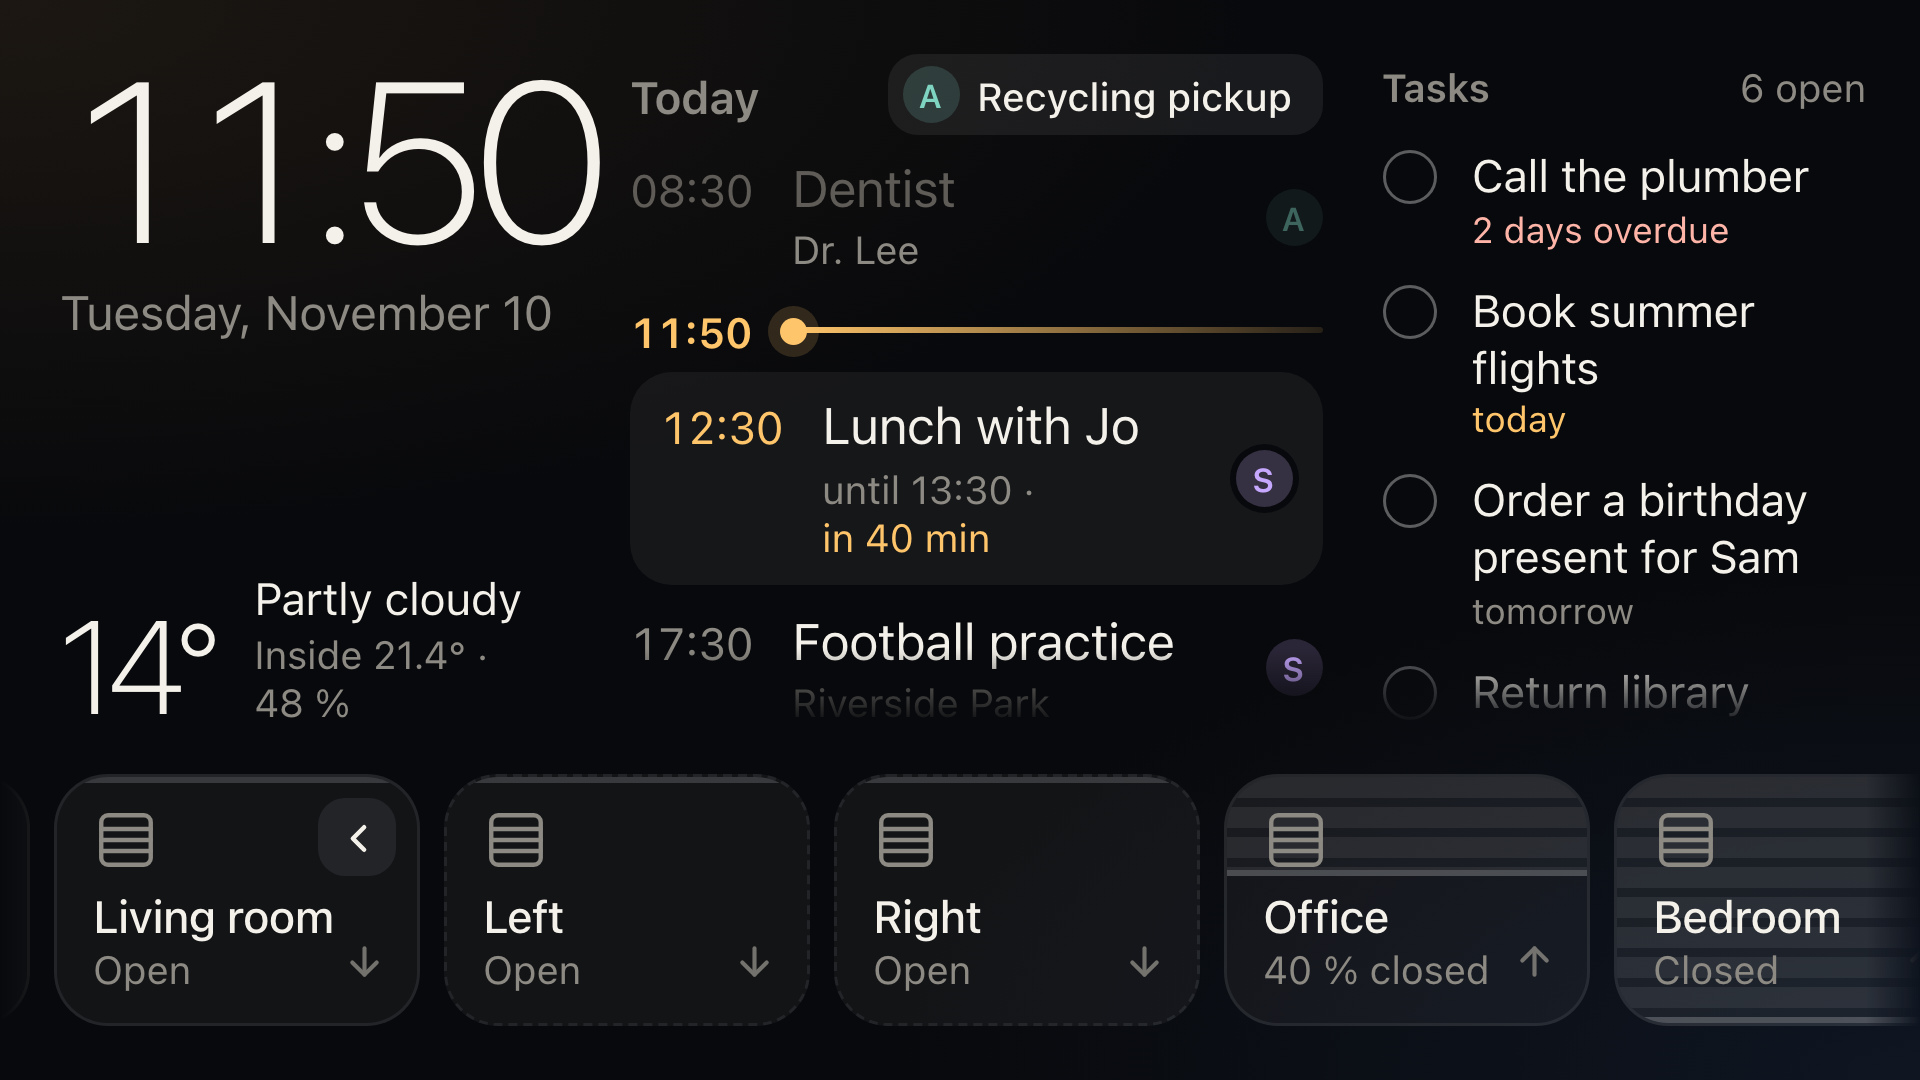
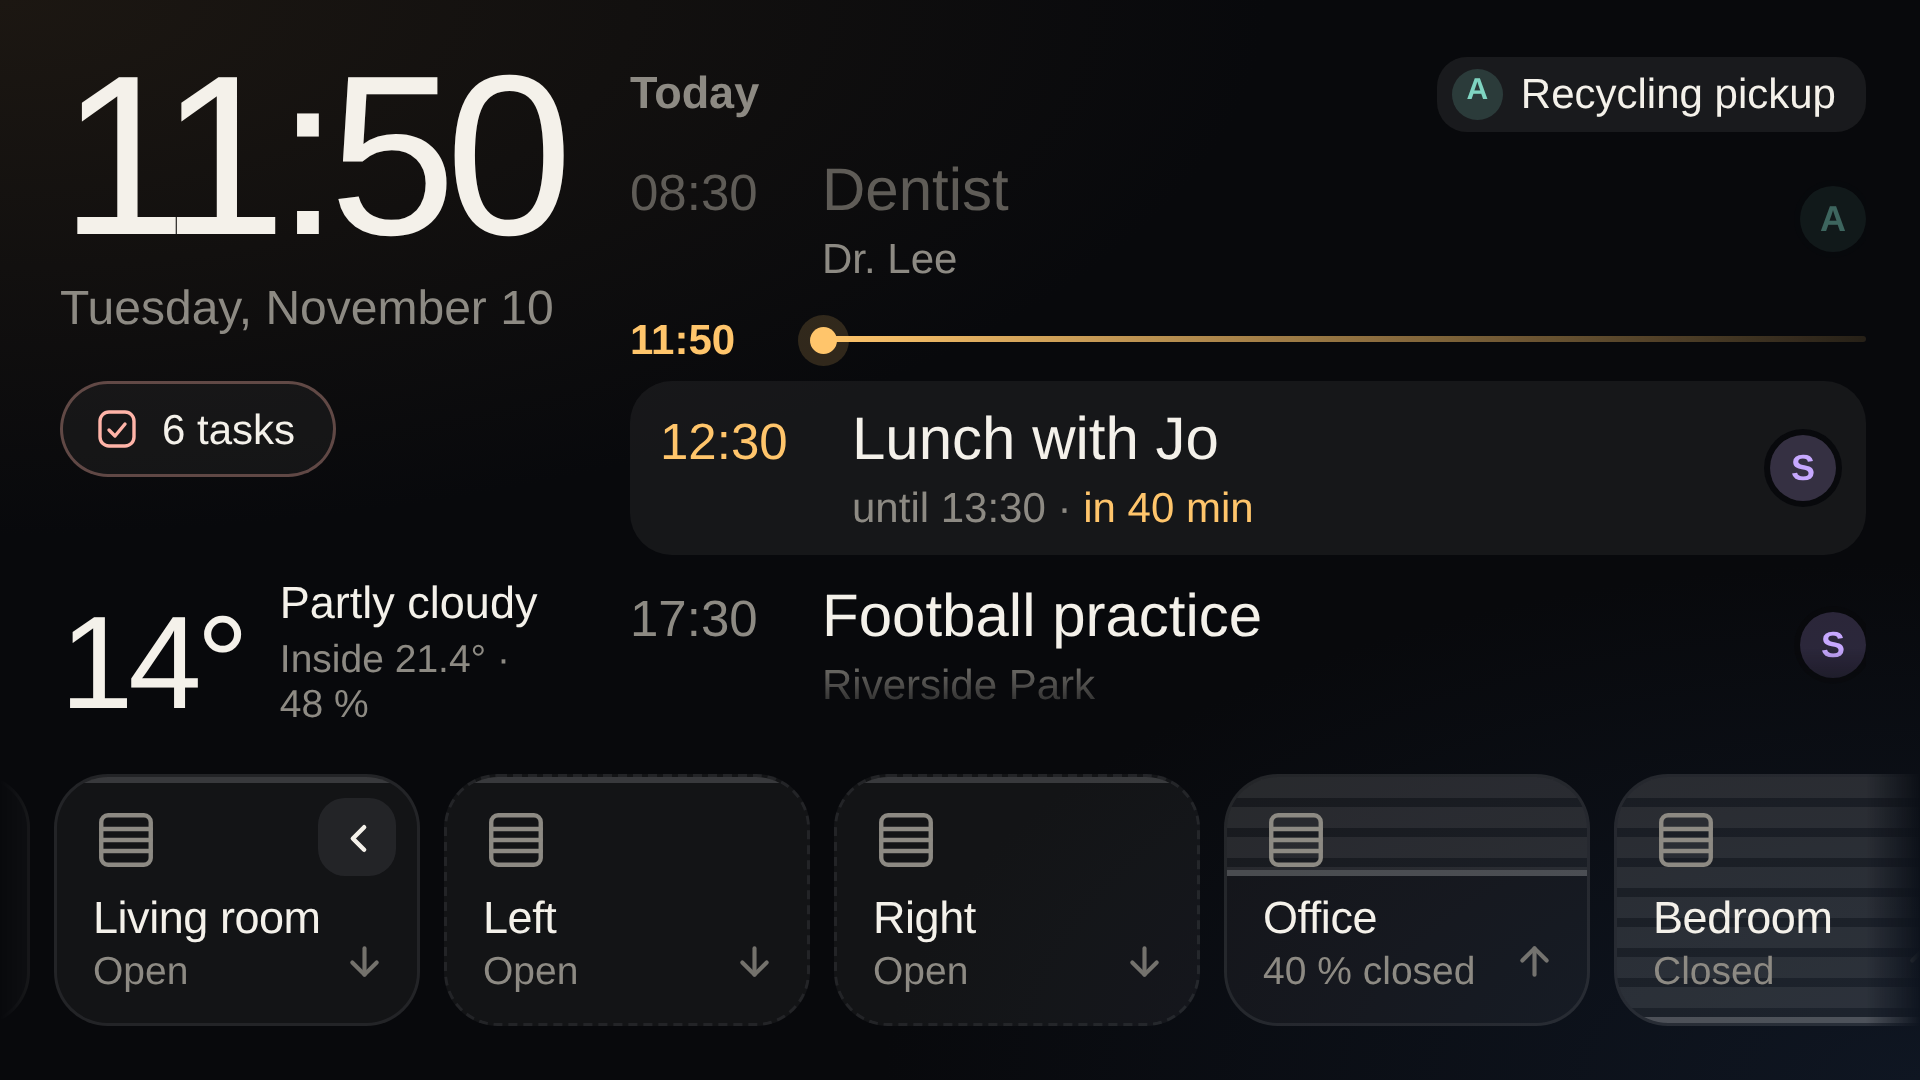
feat: keep the agenda full width and flip to the tasks from a switch under the date

diff --git a/app.js b/app.js
@@ -28,6 +28,8 @@ const DOUBLE_TAP_MS = 400;
 const FINDER_IDLE_MS = 60 * 1000;
 /** After a manual scroll the agenda waits this long, then glides back to the now line. */
 const AGENDA_HOLD_MS = 45 * 1000;
+/** The task list slides back to the calendar after this long without a touch. */
+const TASKS_IDLE_MS = 30 * 1000;
 /** The panel reloads itself when a deploy changes these files. */
 const UPDATE_FILES = ["index.html", "config.js", "app.js", "styles.css"];
 const UPDATE_CHECK_MS = 2 * 60 * 1000;
@@ -64,6 +66,7 @@ const TEXT = {
     dueTomorrow: "tomorrow",
     open: (n) => `${n} open`,
     allDone: "all done",
+    taskCount: (n) => (n === 1 ? "1 task" : `${n} tasks`),
     on: "On",
     off: "Off",
     offline: "Offline",
@@ -126,6 +129,7 @@ const TEXT = {
     dueTomorrow: "morgen",
     open: (n) => `${n} offen`,
     allDone: "alles erledigt",
+    taskCount: (n) => (n === 1 ? "1 Aufgabe" : `${n} Aufgaben`),
     on: "An",
     off: "Aus",
     offline: "Offline",
@@ -175,6 +179,8 @@ const SHUTTER = svg("ico", '<rect x="3" y="3" width="18" height="18" rx="2.5"/><
 const HI = svg("ico hi", '<path d="M15 21h4a1 1 0 0 0 1-1V4a1 1 0 0 0-1-1h-4"/><path d="M10 8l-4 4 4 4"/><path d="M15 12H6"/>', 1.8);
 const BYE = svg("ico bye", '<path d="M9 21H5a1 1 0 0 1-1-1V4a1 1 0 0 1 1-1h4"/><path d="M14 16l4-4-4-4"/><path d="M9 12h9"/>', 1.8);
 const PHONE = svg("ico", '<rect x="7" y="2.5" width="10" height="19" rx="2.5"/><path d="M11 18h2"/><path d="M2.5 9.5a4 4 0 0 0 0 5"/><path d="M21.5 9.5a4 4 0 0 1 0 5"/>');
+const TASKS_ICON = svg("ico", '<rect x="3.5" y="3.5" width="17" height="17" rx="4.5"/><path d="M8 12.5l3 3 5-6"/>');
+const CALENDAR_ICON = svg("ico", '<rect x="3.5" y="5" width="17" height="15.5" rx="3"/><path d="M3.5 10h17M8 3v4M16 3v4"/>');
 const CHEVRON = svg("", '<path d="M6 9l6 6 6-6"/>', 2.4);
 const CHECK = svg("", '<path d="M5 12.5l4.5 4.5L19 7.5"/>', 3.2);
 
@@ -195,6 +201,8 @@ const strip = document.getElementById("strip");
 const agendaEl = document.getElementById("agenda");
 const tasksEl = document.getElementById("tasks");
 const finderEl = document.getElementById("finder");
+const switchEl = document.getElementById("switch");
+const stageEl = agendaEl.parentElement;
 
 function pad(n) {
   return String(n).padStart(2, "0");
@@ -799,13 +807,31 @@ function completedAt(item) {
   return tap && tap.status === "completed" ? tap.at : 0;
 }
 
-/** The column only exists while something is open or was ticked off in the last hours. */
-function showTasks(visible) {
-  const top = tasksEl.parentElement;
-  if (top.classList.contains("no-tasks") !== visible) return;
-  top.classList.toggle("no-tasks", !visible);
-  centerNow();
-  updateFade(agendaEl);
+const taskSummary = { any: false, open: 0, overdue: false };
+let showingTasks = false;
+let tasksTimer = 0;
+
+/** The calendar and the task list share one place; the switch under the date flips between them. */
+function showView(tasks) {
+  clearTimeout(tasksTimer);
+  showingTasks = tasks && taskSummary.any;
+  stageEl.classList.toggle("show-tasks", showingTasks);
+  if (showingTasks) {
+    tasksTimer = setTimeout(() => showView(false), TASKS_IDLE_MS);
+    updateFade(tasksEl);
+  } else {
+    centerNow();
+  }
+  paintSwitch();
+}
+
+function paintSwitch() {
+  const { any, open, overdue } = taskSummary;
+  switchEl.hidden = !any;
+  switchEl.classList.toggle("overdue", overdue && !showingTasks);
+  switchEl.innerHTML = showingTasks
+    ? `${CALENDAR_ICON}<span>${T.calendar}</span>`
+    : `${TASKS_ICON}<span>${open ? T.taskCount(open) : T.tasks}</span>`;
 }
 
 function renderTasks() {
@@ -816,8 +842,14 @@ function renderTasks() {
   );
   const open = items.filter((t) => t.status === "needs_action");
   const done = items.filter((t) => t.status === "completed" && now - t.doneAt < DONE_VISIBLE_MS);
-  showTasks(open.length + done.length > 0);
-  if (!open.length && !done.length) {
+  Object.assign(taskSummary, {
+    any: open.length + done.length > 0,
+    open: open.length,
+    overdue: open.some((t) => dueLabel(t.due)?.cls === "over"),
+  });
+  if (showingTasks && !taskSummary.any) showView(false);
+  else paintSwitch();
+  if (!taskSummary.any) {
     tasksEl.innerHTML = "";
     return;
   }
@@ -1095,6 +1127,15 @@ finderEl.addEventListener("click", (ev) => {
 });
 
 agendaEl.addEventListener("pointerdown", holdAgenda);
+
+switchEl.addEventListener("click", () => {
+  haptic("tick");
+  showView(!showingTasks);
+});
+
+tasksEl.addEventListener("pointerdown", () => {
+  if (showingTasks) showView(true);
+});
 
 tasksEl.addEventListener("click", (ev) => {
   const row = ev.target.closest("[data-task]");

diff --git a/styles.css b/styles.css
@@ -56,13 +56,61 @@ h2 { margin: 0; font: inherit; }
 .top {
   min-height: 0;
   display: grid;
-  grid-template-columns: 172px minmax(0, 1fr) minmax(0, 0.7fr);
+  grid-template-columns: 172px minmax(0, 1fr);
   gap: 20px;
 }
 
-/* Without open or freshly ticked-off tasks the agenda takes the whole width */
-.top.no-tasks { grid-template-columns: 172px minmax(0, 1fr); }
-.top.no-tasks .tasks { display: none; }
+.stage {
+  min-height: 0;
+  display: grid;
+  overflow: hidden;
+}
+
+.stage > .agenda,
+.stage > .tasks {
+  grid-area: 1 / 1;
+  transition: opacity 280ms ease, transform 480ms var(--ease-out), visibility 0s;
+}
+
+/* The hidden side keeps its size, so the agenda can stay scrolled to the now line behind the tasks. */
+.stage > .tasks,
+.stage.show-tasks > .agenda {
+  opacity: 0;
+  visibility: hidden;
+  pointer-events: none;
+  transition: opacity 200ms ease, transform 480ms var(--ease-out), visibility 0s 480ms;
+}
+
+.stage > .tasks { transform: translateX(36px); }
+.stage.show-tasks > .agenda { transform: translateX(-36px); }
+
+.stage.show-tasks > .tasks {
+  opacity: 1;
+  visibility: visible;
+  pointer-events: auto;
+  transform: none;
+  transition: opacity 280ms ease, transform 480ms var(--ease-out), visibility 0s;
+}
+
+.switch {
+  margin-top: 14px;
+  display: inline-flex;
+  align-items: center;
+  gap: 7px;
+  padding: 7px 13px 7px 10px;
+  border: 1px solid var(--panel-line);
+  border-radius: 999px;
+  background: var(--panel);
+  color: var(--text);
+  font: inherit;
+  font-size: 14px;
+  transition: border-color 240ms ease, transform 320ms var(--spring);
+}
+
+.switch:active { transform: scale(0.95); }
+.switch .ico { width: 16px; height: 16px; color: var(--muted); }
+.switch.overdue { border-color: var(--alert-line); }
+.switch.overdue .ico { color: var(--alert); }
 
 .info {
   display: flex;
@@ -310,29 +358,20 @@ h2 { margin: 0; font: inherit; }
 
 .who.small .badge + .badge { margin-left: -3px; }
 
-/* Sharing the width with the task column: a size smaller, so titles still fit */
-.top:not(.no-tasks) .ev { grid-template-columns: 46px minmax(0, 1fr) auto; column-gap: 8px; }
-.top:not(.no-tasks) .now { grid-template-columns: 46px minmax(0, 1fr); column-gap: 8px; }
-.top:not(.no-tasks) .ev .t { font-size: 15px; }
-.top:not(.no-tasks) .ev .title { font-size: 17px; }
-.top:not(.no-tasks) .ev .sub { font-size: 13px; }
-.top:not(.no-tasks) .badge { width: 19px; height: 19px; font-size: 11px; }
-.top:not(.no-tasks) .chip { font-size: 13px; }
-
 .ev.next .t,
 .ev.next .soon { color: var(--warm); }
 
 .task {
   display: grid;
-  grid-template-columns: 20px minmax(0, 1fr);
-  column-gap: 10px;
+  grid-template-columns: 22px minmax(0, 1fr);
+  column-gap: 12px;
   align-items: start;
-  padding: 5px 0;
+  padding: 6px 0;
 }
 
 .box {
-  width: 18px;
-  height: 18px;
+  width: 21px;
+  height: 21px;
   margin-top: 1px;
   border-radius: 50%;
   border: 1.6px solid rgba(255, 255, 255, 0.34);
@@ -357,7 +396,7 @@ h2 { margin: 0; font: inherit; }
   -webkit-line-clamp: 2;
   -webkit-box-orient: vertical;
   overflow: hidden;
-  font-size: 15px;
+  font-size: 18px;
   line-height: 1.25;
   transition: color 240ms ease;
 }
@@ -365,7 +404,7 @@ h2 { margin: 0; font: inherit; }
 .task .due {
   display: block;
   margin-top: 1px;
-  font-size: 12px;
+  font-size: 13px;
   color: var(--muted);
 }
 

diff --git a/index.html b/index.html
@@ -12,11 +12,14 @@
 </head>
 <body>
   <main class="app">
-    <div class="top no-tasks">
+    <div class="top">
       <aside class="info">
-        <div id="clock">
-          <div id="time" class="time">--:--</div>
-          <div id="date" class="date">—</div>
+        <div>
+          <div id="clock">
+            <div id="time" class="time">--:--</div>
+            <div id="date" class="date">—</div>
+          </div>
+          <button id="switch" class="switch" hidden></button>
         </div>
         <div class="weather">
           <div class="weather-temp"><span id="temp">—</span>°</div>
@@ -26,8 +29,10 @@
           </div>
         </div>
       </aside>
-      <section id="agenda" class="agenda"></section>
-      <section id="tasks" class="tasks"></section>
+      <div class="stage">
+        <section id="agenda" class="agenda"></section>
+        <section id="tasks" class="tasks"></section>
+      </div>
     </div>
     <div id="strip" class="strip"></div>
   </main>

diff --git a/README.md b/README.md
@@ -23,7 +23,7 @@ Open <http://localhost:8000/index.html?demo>. Add `&locale=de-DE` to see the Ger
 - Clock, date, weather and the indoor temperature and humidity on the left.
 - The next seven days from all your calendars in one list. A coloured initial marks whose event it is.
 - A line that marks the current time between today's events. It stays in the middle of the agenda, with what is over above it and what comes next below it. After you scroll, the agenda waits 45 seconds and then glides back.
-- Your to-do lists in a column of their own. The column shows only while a task is open or was ticked off in the last six hours. Tap a task to tick it off or back on.
+- Your to-do lists behind a switch under the date that counts the open tasks. Tap it and the tasks slide in where the agenda was. After 30 seconds without a touch the agenda comes back. The switch shows only while a task is open or was ticked off in the last six hours. Tap a task to tick it off or back on.
 - A swipeable strip with a welcome or goodbye tile first, then your lights, then your shutters. The arrow on a group tile slides its members out next to it. A colour light's tile glows in the colour the light shows.
 - A hidden screen to find a lost phone, tablet or watch. Tap the clock twice to open it, then tap a tile and that device rings. Back, or a minute without a touch, returns to the panel.
 
@@ -93,7 +93,7 @@ Copy all five files again. The panel checks `index.html`, `config.js`, `app.js` 
 | `room` | Indoor `temperature` and `humidity` sensors. |
 | `calendars` | Calendars merged into the agenda, each with an initial, a name and a colour. |
 | `agendaDays` | How many days the agenda shows. The default is 7. |
-| `todoLists`, `todoSkip` | Which to-do lists show up in the task column. |
+| `todoLists`, `todoSkip` | Which to-do lists show up in the task list. |
 | `lights` | Light and switch tiles. A tile with `members` gets an arrow that slides them out. |
 | `covers` | Shutter tiles. A group with several members moves them together. |
 | `phones` | Tiles on the hidden find-a-device screen. Each names a script or a button entity that rings the device. |
